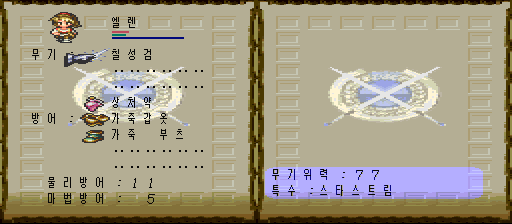
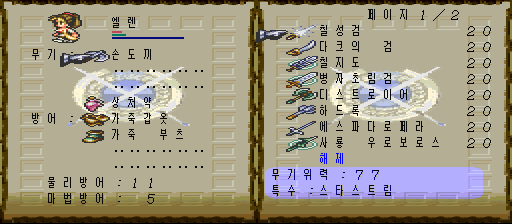
RS3: gear screenshot for v2.1
Claude-Session: https://claude.ai/code/session_01LKgPPUU1z1Xa79DU7YvZ6U

diff --git a/rs3/index.html b/rs3/index.html
@@ -37,7 +37,7 @@
 <tr><th>조우 회피</th><td>켬이면 필드를 돌아다니는 잡몹 심볼에 닿아도 전투가 시작되지 않고 심볼이 사라집니다. 보스·고정 전투·이벤트로 강제되는 전투는 그대로 일어납니다.</td></tr>
 <tr><th>고정 장비 해제</th><td>켜 두면 장착 후 빨간 글씨로 바뀌어 뺄 수 없던 장비(칠지도·다크의 검·귀스타브의 검 같은 저주 표시 장비와 동료 고유의 고정 장비)를 장비 화면에서 「해제」할 수 있습니다. 끄면 원래대로 다시 잠깁니다. 동료 고유 장비(곰돌이·하니와 보디 등)를 빼면 그 동료가 약해질 수 있으니 필요할 때만 쓰세요.</td></tr><tr><th>최강 장비 연동</th><td>켜 두면 <b>장비 화면</b>(게임 메뉴 「장비」)의 장착 목록이 소지품 대신 최강급 장비 21종(각 20개)으로 바뀝니다. 소지품 칸을 전혀 쓰지 않으므로 가방이 가득 차 있어도 상관없습니다. 장비 화면을 닫으면 원래 소지품으로 돌아오고, 바꿔 끼우면서 빠진 원래 장비는 소지품으로(가득 차 있으면 창고로) 돌려놓습니다. 최강 장비는 쓸 때마다 다시 20개로 채워집니다. 끄면 장비 화면도 평소처럼 소지품을 보여 줍니다.<br>무기 12종 — 검: 칠성검(77)·다크의 검(57) / 대검: 칠지도(74)·병자초림검(70) / 도끼: 디스트로이어(49) / 곤봉: 하드록(49) / 소검: 에스파다 로펠라(50) / 창: 사룡 우로보로스(50) / 활: 요이치의 활(53) / 총: 브류나크(88)·블런더버스(56)<br>방어구 9종 — 갑옷: 흑의 갈라드리엘 / 전신: 하니와 슈트 / 옷: 땅거미 로브 / 머리: 전신의 영관 / 팔: 도미넌트 글러브 / 발: 쇠나막신 / 방패: 듀라한의 방패 / 가더: 원더 뱅글 / 액세서리: 여신의 깃털·테트라포스<br>칠지도·다크의 검은 장착하면 빼지 못하는(빨간 글씨) 장비입니다. 뺄 때는 「고정 장비 해제」를 켜세요.</td></tr><tr><th>최강 장비 창고로</th><td>A를 누르면 최강 장비 21종을 가방이 아니라 <b>창고</b>에 9개씩 넣습니다(창고는 한 종류에 9개까지 — 게임 자체 한도). 가방 칸을 쓰지 않으므로 소지품이 꽉 차 있어도 빠지는 것이 없습니다. 창고 담당(피도나 등)에게서 꺼내 쓰세요. 이미 9개면 더 늘지 않습니다.</td></tr><tr><th>공략 보기</th><td>A(또는 ←→)로 열면 공략 목록이 나옵니다. ←→로 목록 쪽을 넘기면 <b>이벤트별 목록</b>(4쪽)과 <b>장소별 목록</b>(5쪽, 「피도나 · 공방 부흥」처럼 마을마다 할 수 있는 이벤트)이 이어집니다. 동료 정보는 따로 「동료 도감」 항목에서 봅니다. ↑↓로 고르고 A로 열며, 본문은 ←→로 쪽을 넘기고 B로 목록에 돌아옵니다. 목록에서 B를 누르면 치트 메뉴로 돌아갑니다.<br><b>완료 표시</b>: 목록이나 본문에서 Y를 누르면 그 이벤트에 ✓가 붙습니다(다시 누르면 지움). 이벤트별·장소별 목록에 함께 보이고, 세이브 메모리(SRAM)의 게임이 쓰지 않는 자리에 저장되어 전원을 꺼도 남습니다. 세 세이브 슬롯이 같은 표시를 씁니다.<br><b>조건 표시</b>: 본문의 「주인공 HP 220 이상」, 「탐욕 14 이하」, 「게이트 4개」 같은 조건 옆에 지금 값과 ○/×가 나옵니다(예: 「(지금 75 ×)」). 「처음 보는 분께」에는 주인공 HP·탐욕·닫은 게이트 수가 한 줄로 나옵니다.<br><b>동료 도감</b>(치트 메뉴의 별도 항목, 12쪽): 가입할 수 있는 동료 106명을 별점(★1~5)과 함께 출신 시리즈 순으로 실었습니다. 동료마다 출신, 가입 장소·조건, 초기 능력(완력·기용·속도·체력·마력·의지·LP), 득의 무기·번뜩임·지휘 적성, 성장률, 전용 장비(코스프레)와 그 능력치 변화, 고정 장비·기술 소비 −1·명술 같은 특징, 육성 추천이 나옵니다. 능력치와 성장률은 롬 데이터에서 직접 읽었습니다. 별점은 초기 능력·성장률로 계산한 점수의 순위(LP는 성능이 아니라서 제외, 전용 장비가 있으면 낀 상태 기준 — 예: 샤르 은의 손 완력·기용 +16)(상위 10% ★5, 다음 20% ★4, 가운데 40% ★3, 다음 20% ★2, 하위 10% ★1)이며, 고유 기술·전용 장비·이벤트 성능은 넣지 않은 참고용입니다. 계산 방법은 목록 첫 항목 「동료 평가 기준」에 있습니다. 같은 내용을 웹에서 거르고 정렬해 볼 수 있는 <a href="companions.html">동료 도감</a>도 있습니다.<br><b>놓치면 끝나는 것</b>: 순서를 어기면 다시 못 하게 되는 일 15가지를 한곳에 모았습니다.<br>개조판(Proto1.123) 기준 34개 항목의 발생 조건·순서·놓치기 쉬운 점을 담았습니다.</td></tr>
 <tr><th>새 게임 화면</th><td>치트 메뉴와 상관없이 항상 표시됩니다.<br><b>주인공 고르기</b>: 이름 옆에 그 주인공의 득의 무기(예: 율리안(검), 카타리나(대)).<br><b>숙성 고르기</b>: 별 이름 옆에 그 별이 올려 주는 능력치와, 같은 능력치를 함께 올려 주는 주무기 앞글자 — 세성 속마(소곤): 속도·마력 / 소검·곤봉, 형혹 마력(술소): 마력 / 술법·소검, 진성(왕자의 별) HP(도대): HP·완력 / 도끼·대검, 태백 완체(도맨): 완력·체력 / 도끼·맨손, 진성(상인의 별) 기용(활맨): 기용 / 활·맨손. 줄이 9칸이라 별명(사냥꾼의 별 등)은 뺐습니다.</td></tr></tbody></table><p class="note">처음 값은 모두 1배·끔이라 메뉴를 건드리지 않으면 원래 게임과 같습니다. 설정은 게임을 켤 때마다 처음 값으로 돌아갑니다(세이브에 저장되지 않음). 모든 기술·술법·진형 배우기와 동료 강제 추가는 개조판이 늘려 놓은 칸과 이벤트 플래그를 깨뜨릴 위험이 커서 넣지 않았습니다.</p></div></section>
-<section id="shots"><div class="wrap"><h2>화면</h2><div class="shots"><figure><img src="img/title.png" alt="버전이 표시된 타이틀 화면" width="256" height="224" loading="lazy"><figcaption>타이틀 화면 버전 표시</figcaption></figure><figure><img src="img/menu.png" alt="필드에서 연 치트 메뉴" width="256" height="224" loading="lazy"><figcaption>치트 메뉴</figcaption></figure><figure><img src="img/gear.png" alt="최강 장비 지급 후 소지품" width="512" height="224" loading="lazy"><figcaption>최강 장비 20개씩 지급</figcaption></figure><figure><img src="img/guide_list.png" alt="공략 목록 화면" width="256" height="224" loading="lazy"><figcaption>공략 목록</figcaption></figure><figure><img src="img/guide_page.png" alt="공략 본문 화면" width="256" height="224" loading="lazy"><figcaption>공략 본문 — 지금 상태 표시</figcaption></figure><figure><img src="img/guide_place.png" alt="장소별 목록" width="256" height="224" loading="lazy"><figcaption>장소별 목록 (✓ 완료 표시)</figcaption></figure><figure><img src="img/newgame_chars.png" alt="주인공 고르기 화면" width="512" height="224" loading="lazy"><figcaption>주인공 이름 옆 득의 무기</figcaption></figure><figure><img src="img/newgame_star.png" alt="숙성 고르기 화면" width="512" height="224" loading="lazy"><figcaption>숙성별 능력치·어울리는 무기</figcaption></figure><figure><img src="img/guide_comp_list.png" alt="동료 목록" width="256" height="224" loading="lazy"><figcaption>동료 목록 (별점)</figcaption></figure><figure><img src="img/guide_comp.png" alt="동료 상세" width="256" height="224" loading="lazy"><figcaption>동료 상세 — 능력·성장률·추천</figcaption></figure><figure><img src="img/guide_miss.png" alt="놓치면 끝나는 것" width="256" height="224" loading="lazy"><figcaption>놓치면 끝나는 것</figcaption></figure><figure><img src="img/gamemenu.png" alt="게임 메뉴 맨 아래에 추가된 치트 항목" width="256" height="224" loading="lazy"><figcaption>게임 메뉴의 「치트」 항목</figcaption></figure><figure><img src="img/growth.png" alt="전투 후 성장 메시지" width="256" height="224" loading="lazy"><figcaption>성장 5배 — 전투 후 「업!」</figcaption></figure><figure><img src="img/field.png" alt="시논 숲 필드" width="256" height="224" loading="lazy"><figcaption>필드</figcaption></figure><figure><img src="img/dialog.png" alt="한국어 대사 화면" width="256" height="224" loading="lazy"><figcaption>한국어판 대사</figcaption></figure></div></div></section>
+<section id="shots"><div class="wrap"><h2>화면</h2><div class="shots"><figure><img src="img/title.png" alt="버전이 표시된 타이틀 화면" width="256" height="224" loading="lazy"><figcaption>타이틀 화면 버전 표시</figcaption></figure><figure><img src="img/menu.png" alt="필드에서 연 치트 메뉴" width="256" height="224" loading="lazy"><figcaption>치트 메뉴</figcaption></figure><figure><img src="img/gear.png" alt="최강 장비 지급 후 소지품" width="512" height="224" loading="lazy"><figcaption>장비 화면의 최강 장비 목록(연동)</figcaption></figure><figure><img src="img/guide_list.png" alt="공략 목록 화면" width="256" height="224" loading="lazy"><figcaption>공략 목록</figcaption></figure><figure><img src="img/guide_page.png" alt="공략 본문 화면" width="256" height="224" loading="lazy"><figcaption>공략 본문 — 지금 상태 표시</figcaption></figure><figure><img src="img/guide_place.png" alt="장소별 목록" width="256" height="224" loading="lazy"><figcaption>장소별 목록 (✓ 완료 표시)</figcaption></figure><figure><img src="img/newgame_chars.png" alt="주인공 고르기 화면" width="512" height="224" loading="lazy"><figcaption>주인공 이름 옆 득의 무기</figcaption></figure><figure><img src="img/newgame_star.png" alt="숙성 고르기 화면" width="512" height="224" loading="lazy"><figcaption>숙성별 능력치·어울리는 무기</figcaption></figure><figure><img src="img/guide_comp_list.png" alt="동료 목록" width="256" height="224" loading="lazy"><figcaption>동료 목록 (별점)</figcaption></figure><figure><img src="img/guide_comp.png" alt="동료 상세" width="256" height="224" loading="lazy"><figcaption>동료 상세 — 능력·성장률·추천</figcaption></figure><figure><img src="img/guide_miss.png" alt="놓치면 끝나는 것" width="256" height="224" loading="lazy"><figcaption>놓치면 끝나는 것</figcaption></figure><figure><img src="img/gamemenu.png" alt="게임 메뉴 맨 아래에 추가된 치트 항목" width="256" height="224" loading="lazy"><figcaption>게임 메뉴의 「치트」 항목</figcaption></figure><figure><img src="img/growth.png" alt="전투 후 성장 메시지" width="256" height="224" loading="lazy"><figcaption>성장 5배 — 전투 후 「업!」</figcaption></figure><figure><img src="img/field.png" alt="시논 숲 필드" width="256" height="224" loading="lazy"><figcaption>필드</figcaption></figure><figure><img src="img/dialog.png" alt="한국어 대사 화면" width="256" height="224" loading="lazy"><figcaption>한국어판 대사</figcaption></figure></div></div></section>
 <section id="howto"><div class="wrap"><h2>적용 방법</h2><ol class="steps"><li><h4>한국어판 롬 만들기</h4><p>일본판 <b>v1.1</b> 롬(헤더 없음, 4,194,304바이트)에 원작 개조판 패치 <code>ぼくのProto1.123.ips</code>를 적용하고(결과 CRC32 <code>7E165025</code>), 그 위에 <a href="https://github.com/beck4679-alt/bokuno-rs3-ko">한국어 패치</a> <code>bokuno_ko_v0.118.xdelta</code>를 적용합니다. 자세한 순서는 한국어 패치 저장소의 설치 안내를 따르세요.</p></li><li><h4>롬 확인</h4><p>한국어판 롬이 CRC32 <code>709120DF</code>, SHA-1 <code>f32e30d007e4e1fd54c7a972004c4d24c2429a64</code>(8,388,608바이트)인지 확인합니다. 값이 다르면 이 패치를 적용하지 마세요.</p></li><li><h4>치트 패치 적용</h4><p><a href="https://www.marcrobledo.com/RomPatcher.js/">RomPatcher.js</a>(웹)나 <a href="https://github.com/Alcaro/Flips">Floating IPS</a>(PC)로 적용합니다. 결과 롬 CRC32는 <code>31EB907B</code>입니다. 타이틀 화면 맨 위에 「한글 v0.118 · 치트 v2.1」이 보이면 제대로 적용된 것입니다. 버전을 헷갈리지 않도록 롬 파일 이름도 <code>Romancing SaGa 3 EX [KOR v0.118 + Cheat v2.1].sfc</code>처럼 버전을 붙여 두기를 권합니다. 한국어판에서 쓰던 세이브를 그대로 이어서 쓸 수 있습니다.</p></li></ol>
  <div class="btns"><a class="btn main" href="patches/RS3_Bokuno_Korean_Cheat_v2.1.ips" download>IPS 받기 (v2.1)</a></div>
  <p class="note"><b>일본판 v1.0 주의:</b> 일본판 v1.0 롬에 개조판 패치를 적용해도 파일은 만들어지지만, 새 게임에서 주무기를 고르는 순간 멈춥니다. 원래 헤더의 버전 값이 0이면 v1.0입니다. 반드시 v1.1을 바탕으로 만드세요.</p></div></section>
